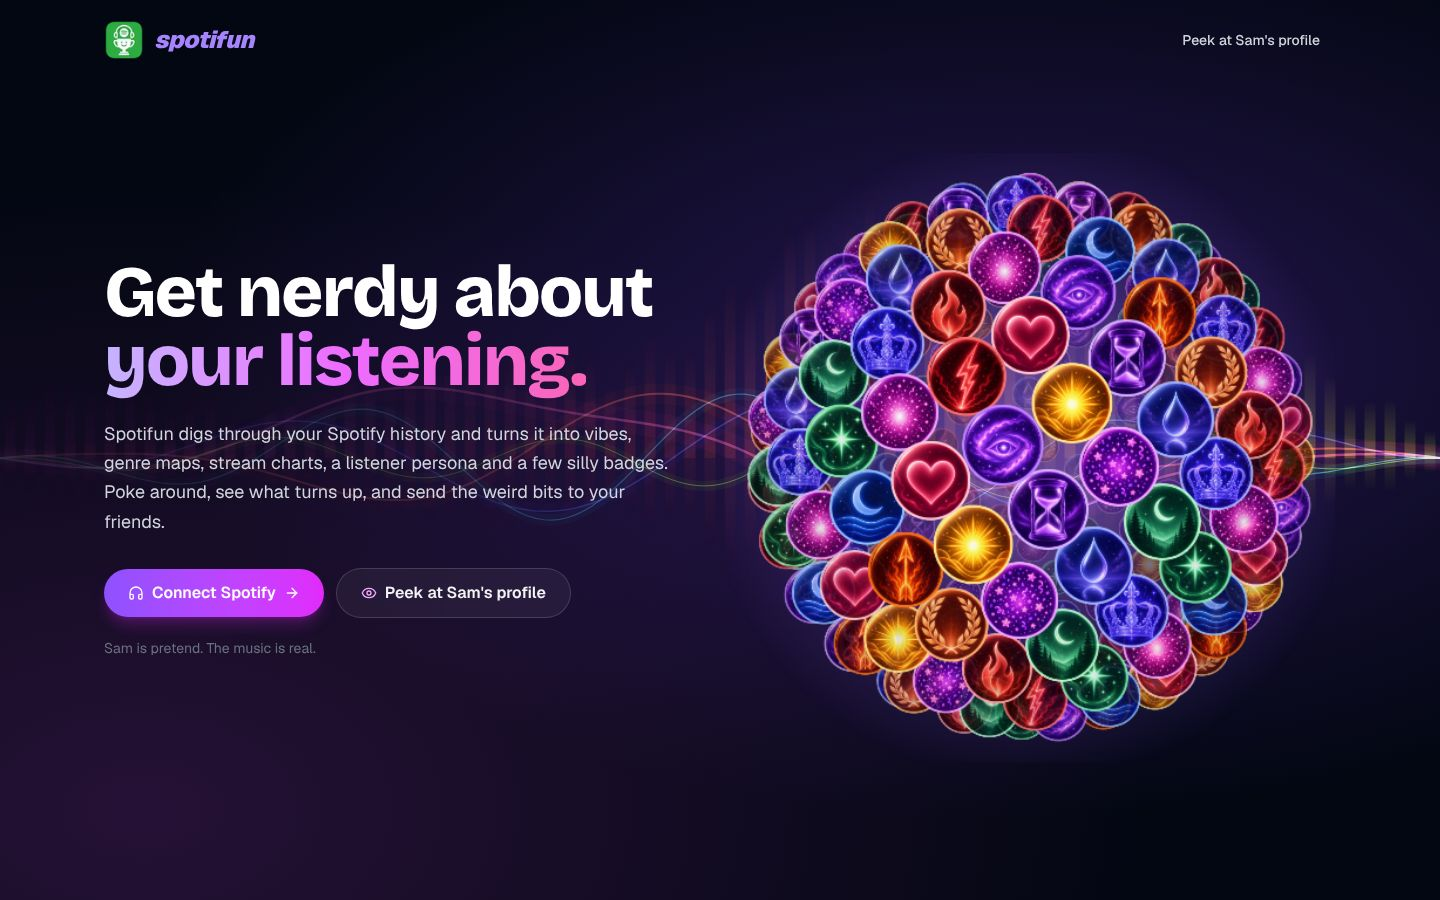
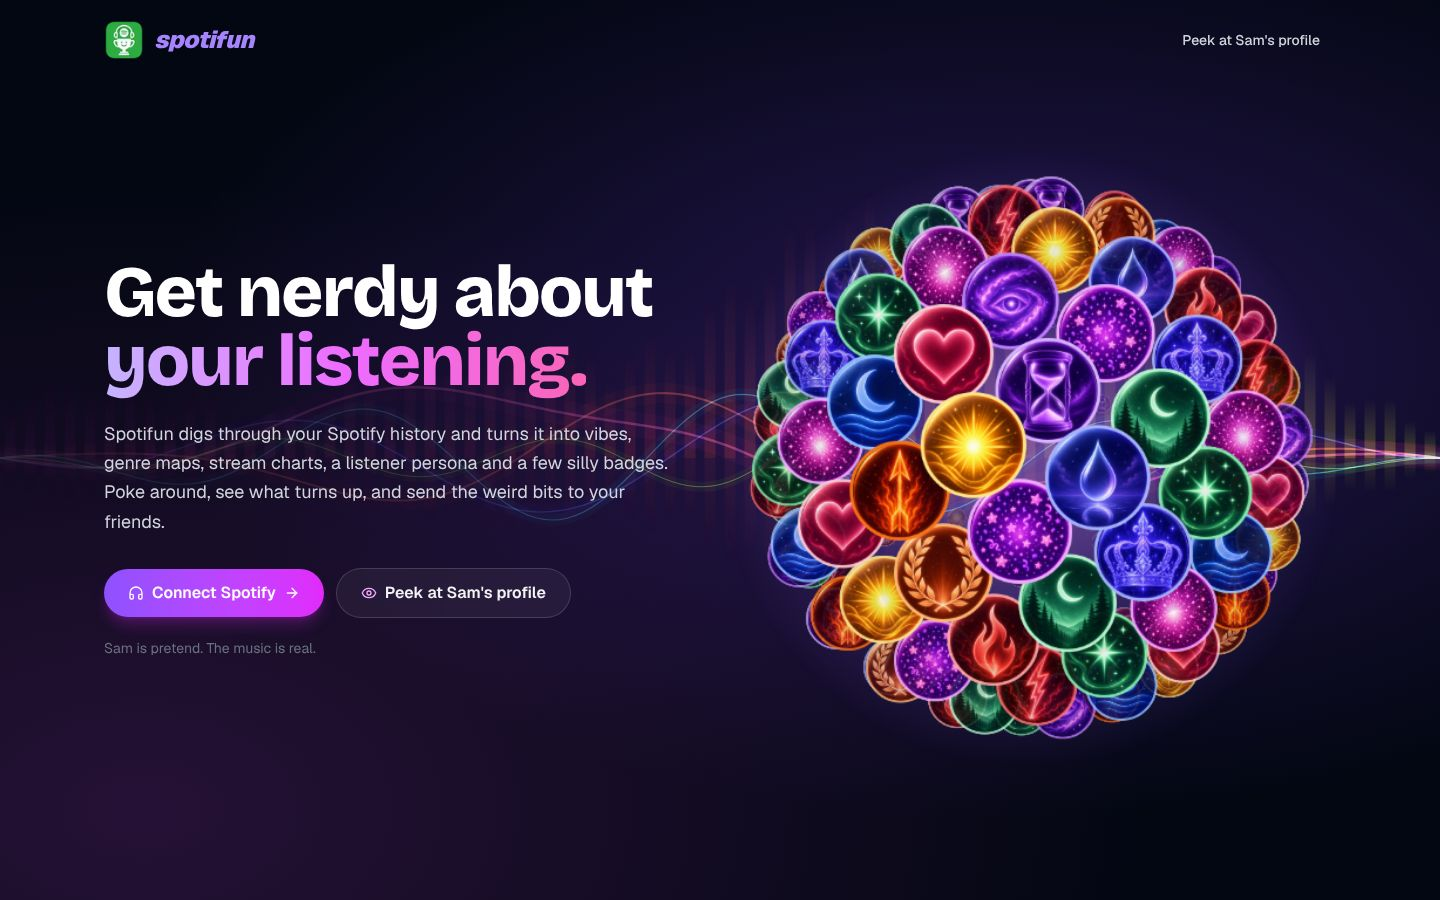
Scale globe badges by depth and tune the home page for phones
- Badges facing the viewer swell and the far side shrinks, with a closer
  camera for stronger perspective
- Phones get fewer globe icons, a lower canvas resolution, fewer equalizer
  bars and waves at ~30fps, a smaller globe and title so the buttons fit on
  screen, tighter section spacing and a peek of the achievements grid

Claude-Session: https://claude.ai/code/session_01H47hBFKCyRvLwnFjNm3ikS

Changed region(s): [[0.4375, 0.1867, 0.9375, 0.84]]

diff --git a/src/app/page.tsx b/src/app/page.tsx
@@ -72,7 +72,7 @@ function ConnectButton({ isConnecting, onClick, className }: { isConnecting: boo
 
 function SectionTitle({ icon: Icon, iconClass, title, children }: { icon: typeof Sparkles; iconClass: string; title: string; children?: React.ReactNode }) {
   return (
-    <motion.div {...reveal} className="mx-auto mb-10 max-w-2xl text-center">
+    <motion.div {...reveal} className="mx-auto mb-8 max-w-2xl text-center sm:mb-10">
       <h2 className="flex flex-col items-center justify-center gap-2 font-display text-3xl font-extrabold tracking-tight text-white sm:flex-row sm:gap-3 sm:text-4xl">
         <Icon className={cn('h-7 w-7 shrink-0', iconClass)} />
         {title}
@@ -108,23 +108,23 @@ export default function Home() {
             <Image src="/logo.png" alt="" width={40} height={40} className="h-10 w-10" />
             <span className="text-2xl font-black italic lowercase tracking-tight text-violet-400">spotifun</span>
           </Link>
-          <Link href="/example" className="rounded-full px-4 py-2 text-sm font-medium text-gray-300 hover:bg-white/10 hover:text-white">
+          <Link href="/example" className="hidden rounded-full px-4 py-2 text-sm font-medium text-gray-300 hover:bg-white/10 hover:text-white sm:inline-flex">
             Peek at Sam&apos;s profile
           </Link>
         </header>
 
-        <div className="mx-auto grid w-full max-w-7xl flex-1 items-center gap-6 px-4 pb-16 sm:px-6 lg:grid-cols-[1fr_1.05fr] lg:gap-10">
+        <div className="mx-auto grid w-full max-w-7xl flex-1 items-center gap-6 px-4 pb-12 sm:px-6 sm:pb-16 lg:grid-cols-[1fr_1.05fr] lg:gap-10">
           <motion.div initial={{ opacity: 0, y: 24 }} animate={{ opacity: 1, y: 0 }} transition={{ duration: 0.6 }} className="order-2 lg:order-1">
-            <h1 className="font-display text-5xl font-extrabold leading-[0.95] tracking-tight sm:text-6xl xl:text-7xl">
+            <h1 className="font-display text-[2.6rem] font-extrabold leading-[0.95] tracking-tight sm:text-6xl xl:text-7xl">
               Get nerdy about
               <br />
               <span className="bg-gradient-to-r from-violet-300 via-fuchsia-400 to-pink-400 bg-clip-text text-transparent">your listening.</span>
             </h1>
-            <p className="mt-6 max-w-xl text-lg leading-relaxed text-gray-300">
+            <p className="mt-4 max-w-xl text-base leading-relaxed text-gray-300 sm:mt-6 sm:text-lg">
               Spotifun digs through your Spotify history and turns it into vibes, genre maps, stream charts, a listener persona and a few silly badges.
               Poke around, see what turns up, and send the weird bits to your friends.
             </p>
-            <div className="mt-8 flex flex-wrap items-center gap-3">
+            <div className="mt-6 flex flex-wrap items-center gap-3 sm:mt-8">
               <ConnectButton isConnecting={isConnecting} onClick={handleConnect} />
               <Link
                 href="/example"
@@ -142,7 +142,7 @@ export default function Home() {
             initial={{ opacity: 0, scale: 0.85 }}
             animate={{ opacity: 1, scale: 1 }}
             transition={{ duration: 1.1, ease: 'easeOut' }}
-            className="relative order-1 mx-auto aspect-square w-full max-w-[340px] sm:max-w-[460px] lg:order-2 lg:max-w-[620px]"
+            className="relative order-1 mx-auto aspect-square w-full max-w-[min(340px,40svh)] sm:max-w-[460px] lg:order-2 lg:max-w-[620px]"
           >
             <VibeGlobe className="h-full w-full" />
           </motion.div>
@@ -158,7 +158,7 @@ export default function Home() {
       {!failed && (
         <main className="relative">
           {/* Profile carousel, live */}
-          <section className="mx-auto max-w-6xl px-4 py-24 sm:px-6">
+          <section className="mx-auto max-w-6xl px-4 py-14 sm:px-6 sm:py-24">
             <SectionTitle icon={Sparkles} iconClass="text-fuchsia-400" title="Flip through Sam's profile">
               This is the real thing, running on Sam&apos;s listening. Click around. Every card has a share button.
             </SectionTitle>
@@ -172,7 +172,7 @@ export default function Home() {
           </section>
 
           {/* Top artists and tracks */}
-          <section className="py-20">
+          <section className="py-14 sm:py-20">
             <div className="px-4 sm:px-6">
               <SectionTitle icon={Repeat} iconClass="text-green-400" title="Who's on repeat">
                 Top artists, tracks and genres, for the last four weeks, six months or all time.
@@ -182,7 +182,7 @@ export default function Home() {
           </section>
 
           {/* Sharing */}
-          <section className="mx-auto max-w-6xl px-4 py-24 sm:px-6">
+          <section className="mx-auto max-w-6xl px-4 py-14 sm:px-6 sm:py-24">
             <div className="grid items-center gap-12 lg:grid-cols-2">
               <motion.div {...reveal} className="text-center lg:text-left">
                 <h2 className="flex flex-col items-center justify-center gap-2 font-display text-3xl font-extrabold tracking-tight sm:flex-row sm:gap-3 sm:text-4xl lg:justify-start">
@@ -198,7 +198,7 @@ export default function Home() {
           </section>
 
           {/* Fun stats and achievements */}
-          <section className="mx-auto max-w-6xl px-4 py-24 sm:px-6">
+          <section className="mx-auto max-w-6xl px-4 py-14 sm:px-6 sm:py-24">
             <SectionTitle icon={Trophy} iconClass="text-yellow-400" title="Odd little facts and badges">
               A story carousel of trivia about your listening, and achievements for things like trying ten genres.
             </SectionTitle>
@@ -206,7 +206,15 @@ export default function Home() {
               {stats ? (
                 <>
                   <FunStats stats={stats} />
-                  <Achievements stats={stats} />
+                  {/* Eight stacked badges is a lot of thumb-scrolling on a phone, so show a peek */}
+                  <div className="relative max-h-[560px] overflow-hidden sm:max-h-none sm:overflow-visible">
+                    <Achievements stats={stats} />
+                    <div className="absolute inset-x-0 bottom-0 flex h-40 items-end justify-center bg-gradient-to-t from-gray-950 via-gray-950/90 to-transparent pb-4 sm:hidden">
+                      <Link href="/example" className="rounded-full border border-white/15 bg-gray-800/90 px-5 py-2 text-sm font-medium text-gray-100">
+                        See all of Sam&apos;s badges
+                      </Link>
+                    </div>
+                  </div>
                 </>
               ) : (
                 <Placeholder className="h-96" />
@@ -220,7 +228,7 @@ export default function Home() {
       <section className="relative isolate overflow-hidden border-t border-white/5">
         <Image src="/home/art-spiral.webp" alt="" fill sizes="100vw" className="-z-10 object-cover opacity-25" />
         <div aria-hidden className="absolute inset-0 -z-10 bg-gradient-to-b from-gray-950 via-gray-950/70 to-gray-950" />
-        <motion.div {...reveal} className="mx-auto flex max-w-2xl flex-col items-center px-4 py-28 text-center">
+        <motion.div {...reveal} className="mx-auto flex max-w-2xl flex-col items-center px-4 py-20 text-center sm:py-28">
           <Image src="/logo.png" alt="" width={72} height={72} className="h-16 w-16" />
           <h2 className="mt-6 font-display text-4xl font-extrabold tracking-tight sm:text-5xl">Curious what&apos;s in yours?</h2>
           <p className="mt-4 text-lg text-gray-400">It only reads your listening history. Your playlists stay exactly as they are.</p>

diff --git a/src/components/home/HeroWaves.tsx b/src/components/home/HeroWaves.tsx
@@ -17,11 +17,9 @@ const WAVES = [
   { hue: 45, amp: 0.06, freq: 4.6, speed: 1.6, width: 1, offset: 5.9 },
 ];
 
-const BAR_COUNT = 72;
-
-/** Smooth pseudo-audio level for bar `i` at time `t`: a few layered sines, 0..1 */
-function level(i: number, t: number): number {
-  const x = i / BAR_COUNT;
+/** Smooth pseudo-audio level for bar `i` of `bars` at time `t`: a few layered sines, 0..1 */
+function level(i: number, bars: number, t: number): number {
+  const x = i / bars;
   const v =
     Math.sin(x * 9 + t * 2.1) * 0.35 +
     Math.sin(x * 23 - t * 3.3 + 1.3) * 0.25 +
@@ -49,6 +47,7 @@ export function HeroWaves({ className, anchorRef }: HeroWavesProps) {
     let width = 0;
     let height = 0;
     let dpr = 1;
+    let small = false;
     let horizon = 0;
     let span = 0;
     const resize = () => {
@@ -57,9 +56,10 @@ export function HeroWaves({ className, anchorRef }: HeroWavesProps) {
       horizon = anchor ? anchor.top + anchor.height / 2 - rect.top : rect.height * 0.55;
       // Wave and bar heights follow the anchor's size so they hug the globe on any screen
       span = anchor ? anchor.height * 1.1 : rect.height * 0.6;
-      dpr = Math.min(window.devicePixelRatio || 1, 1.5);
       width = rect.width;
       height = rect.height;
+      small = width < 640;
+      dpr = small ? 1 : Math.min(window.devicePixelRatio || 1, 1.5);
       canvas.width = Math.round(width * dpr);
       canvas.height = Math.round(height * dpr);
       if (reducedMotion) draw(performance.now());
@@ -81,12 +81,13 @@ export function HeroWaves({ className, anchorRef }: HeroWavesProps) {
       ctx.globalCompositeOperation = 'lighter';
 
       // Equalizer, mirrored around the horizon line
-      const barGap = width / BAR_COUNT;
+      const bars = small ? 36 : 72;
+      const barGap = width / bars;
       const barWidth = barGap * 0.55;
-      for (let i = 0; i < BAR_COUNT; i++) {
-        const h = level(i, t) * span * 0.5;
+      for (let i = 0; i < bars; i++) {
+        const h = level(i, bars, t) * span * 0.5;
         const x = i * barGap + (barGap - barWidth) / 2;
-        const hue = (260 + (i / BAR_COUNT) * 120 + hueShift) % 360;
+        const hue = (260 + (i / bars) * 120 + hueShift) % 360;
         const up = ctx.createLinearGradient(0, horizon - h, 0, horizon);
         up.addColorStop(0, `hsla(${hue}, 95%, 65%, 0)`);
         up.addColorStop(1, `hsla(${hue}, 95%, 60%, 0.28)`);
@@ -100,8 +101,9 @@ export function HeroWaves({ className, anchorRef }: HeroWavesProps) {
       }
 
       // Sine ribbons: a wide faint pass for glow, then a thin bright line
-      const steps = Math.max(60, Math.round(width / 8));
-      for (const wave of WAVES) {
+      const steps = Math.max(48, Math.round(width / (small ? 10 : 8)));
+      const waves = small ? WAVES.slice(0, 3) : WAVES;
+      for (const wave of waves) {
         const hue = (wave.hue + hueShift) % 360;
         const breathe = 0.7 + 0.3 * Math.sin(t * 0.9 + wave.offset);
         const path = new Path2D();
@@ -132,9 +134,13 @@ export function HeroWaves({ className, anchorRef }: HeroWavesProps) {
     if (anchorRef?.current) resizeObserver.observe(anchorRef.current);
 
     if (!reducedMotion) {
+      let lastDraw = 0;
       const loop = (now: number) => {
         frame = requestAnimationFrame(loop);
-        if (visible) draw(now);
+        // ~30fps on phones is smooth enough for slow waves and saves battery
+        if (!visible || (small && now - lastDraw < 32)) return;
+        lastDraw = now;
+        draw(now);
       };
       frame = requestAnimationFrame(loop);
     }

diff --git a/src/components/home/VibeGlobe.tsx b/src/components/home/VibeGlobe.tsx
@@ -6,8 +6,13 @@ import { cn } from '@/utils';
 
 interface VibeGlobeProps {
   className?: string;
-  /** How many icons cover the sphere */
-  count?: number;
+}
+
+/** Fewer, bigger icons on small screens: lighter to draw and easier to see */
+function iconCountFor(width: number): number {
+  if (width < 420) return 140;
+  if (width < 700) return 190;
+  return 240;
 }
 
 interface Point {
@@ -56,7 +61,7 @@ function makeSprite(image: HTMLImageElement, rim: string): HTMLCanvasElement {
  * A dense, slowly spinning sphere tiled with the vibe paintings. Drag to spin it.
  * Canvas 2D with a simple perspective projection: no WebGL or 3D library needed.
  */
-export function VibeGlobe({ className, count = 240 }: VibeGlobeProps) {
+export function VibeGlobe({ className }: VibeGlobeProps) {
   const canvasRef = useRef<HTMLCanvasElement>(null);
 
   useEffect(() => {
@@ -73,6 +78,7 @@ export function VibeGlobe({ className, count = 240 }: VibeGlobeProps) {
       img.src = vibe.image!;
     });
 
+    const count = iconCountFor(canvas.getBoundingClientRect().width);
     const points = fibonacciSphere(count, vibes.length);
     const reducedMotion = window.matchMedia('(prefers-reduced-motion: reduce)').matches;
 
@@ -81,9 +87,10 @@ export function VibeGlobe({ className, count = 240 }: VibeGlobeProps) {
     let dpr = 1;
     const resize = () => {
       const rect = canvas.getBoundingClientRect();
-      dpr = Math.min(window.devicePixelRatio || 1, 2);
       width = rect.width;
       height = rect.height;
+      // Phones have dense screens but small GPUs; 1.5x is plenty for these icons
+      dpr = Math.min(window.devicePixelRatio || 1, width < 640 ? 1.5 : 2);
       canvas.width = Math.round(width * dpr);
       canvas.height = Math.round(height * dpr);
     };
@@ -147,10 +154,11 @@ export function VibeGlobe({ className, count = 240 }: VibeGlobeProps) {
         angle += velocity * dt;
       }
 
-      const radius = Math.min(width, height) * 0.4;
+      const radius = Math.min(width, height) * 0.38;
       const cx = width / 2;
       const cy = height / 2;
-      const camera = 3.2;
+      // Camera distance in sphere radii: closer means stronger perspective
+      const camera = 2.6;
       const cosA = Math.cos(angle), sinA = Math.sin(angle);
       const cosT = Math.cos(tilt), sinT = Math.sin(tilt);
       // Icon size that just about tiles the sphere surface
@@ -186,8 +194,9 @@ export function VibeGlobe({ className, count = 240 }: VibeGlobeProps) {
         const sprite = sprites[p.sprite];
         if (!sprite) continue;
         const depth = (p.z + 1) / 2; // 0 = far side, 1 = facing us
-        const size = baseSize * (camera / (camera - p.z)) * (0.75 + depth * 0.25);
-        ctx.globalAlpha = 0.18 + depth * 0.82;
+        // Scale by distance: badges facing us swell and overlap, the far side shrinks to specks
+        const size = baseSize * (camera / (camera - p.z)) * (0.35 + depth * 0.75);
+        ctx.globalAlpha = 0.15 + depth * 0.85;
         ctx.drawImage(sprite, p.x - size / 2, p.y - size / 2, size, size);
       }
       ctx.globalAlpha = 1;
@@ -203,7 +212,7 @@ export function VibeGlobe({ className, count = 240 }: VibeGlobeProps) {
       canvas.removeEventListener('pointerup', onPointerUp);
       canvas.removeEventListener('pointercancel', onPointerUp);
     };
-  }, [count]);
+  }, []);
 
   return (
     <canvas
